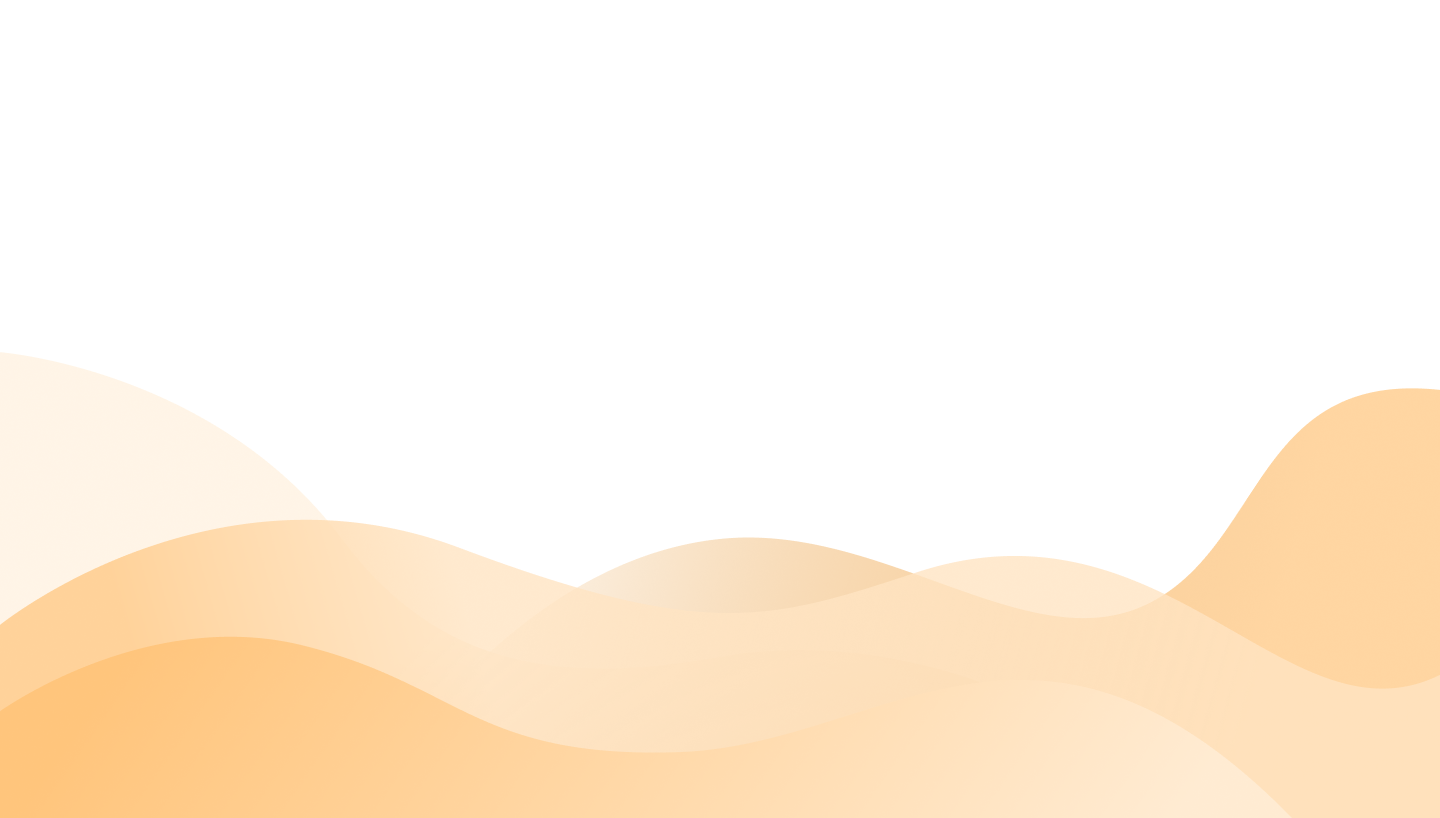
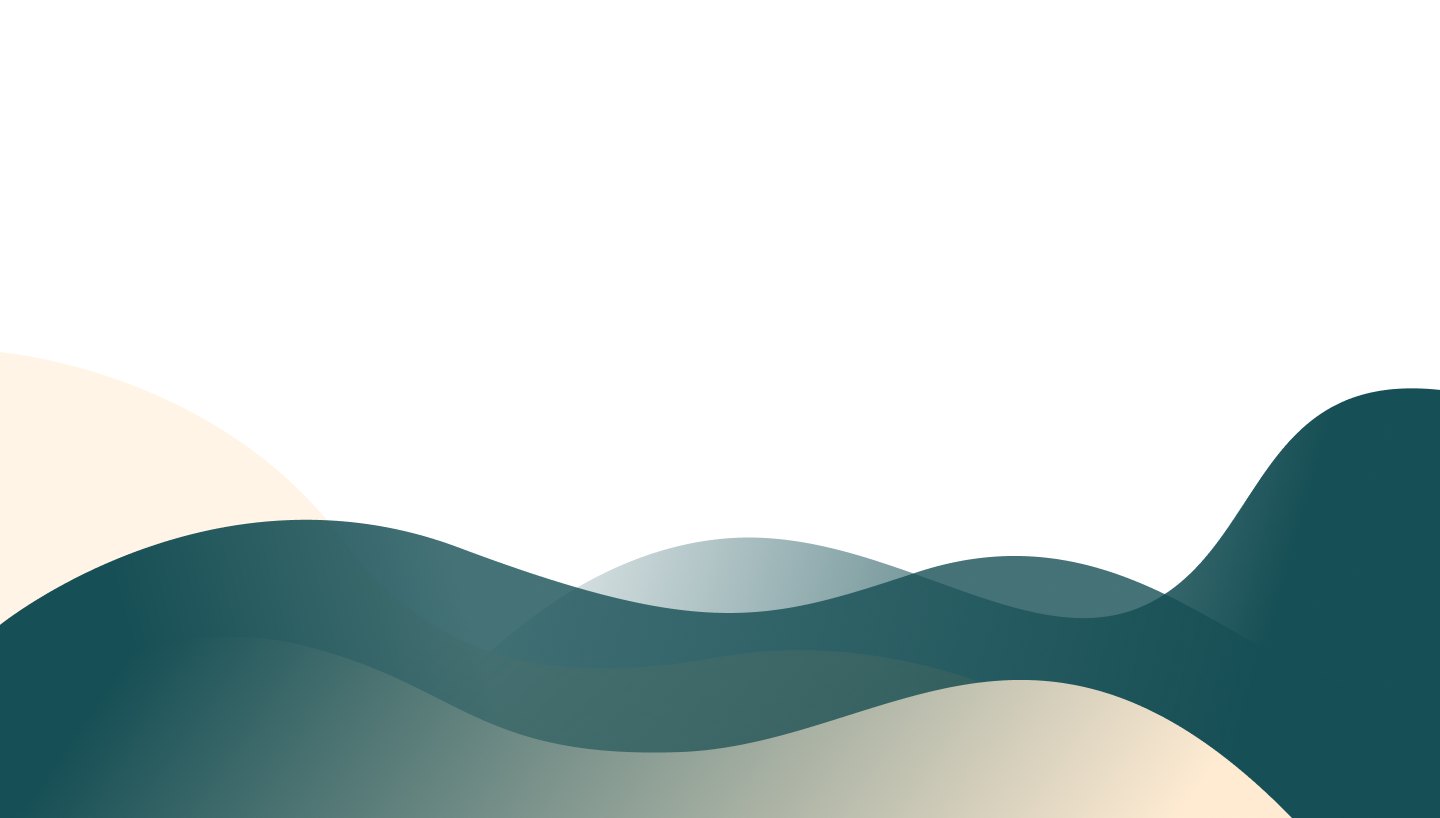
covendx

diff --git a/frontend/src/components/Home/Challenges.jsx b/frontend/src/components/Home/Challenges.jsx
@@ -11,7 +11,7 @@ const Challenges = () => {
 <>
     <div className='Challenges'>
 
-        <div className='challengesHead'>Why Aadmiwala?</div>
+        <div className='challengesHead'>Why Covendx?</div>
 
         <div className='text'>Our platform simplifies agency connections, <br />allowing you to focus on core business while we manage staffing intricacies.</div>
 
@@ -19,27 +19,27 @@ const Challenges = () => {
         {/* <div className='CC_box'>
                 <img src={c0} className='CC_icon'/>
                 <div className='subHead'>Adapting to Changing <br />Business Needs</div> */}
-                {/* <div className='CC_text'>Aadmiwala offers flexible and customizable staffing solutions that adapt to your evolving business needs. Whether you need temporary, permanent, or contract staffing, we have the agility to tailor our services to meet your changing requirements.</div> */}
+                {/* <div className='CC_text'>Covendx offers flexible and customizable staffing solutions that adapt to your evolving business needs. Whether you need temporary, permanent, or contract staffing, we have the agility to tailor our services to meet your changing requirements.</div> */}
             {/* </div> */}
             <div className='CC_box'>
                 <img src={c1} className='CC_icon'/>
                 <div className='subHead'>Ensuring Quality and <br />Reliability</div>
-                {/* <div className='CC_text'> Aadmiwala meticulously evaluates and validates all staffing agencies in our network to ensure they meet our stringent standards. With our quality assurance processes in place, you can trust that you are working with reliable partners who deliver top-notch staffing solutions.</div> */}
+                {/* <div className='CC_text'> Covendx meticulously evaluates and validates all staffing agencies in our network to ensure they meet our stringent standards. With our quality assurance processes in place, you can trust that you are working with reliable partners who deliver top-notch staffing solutions.</div> */}
             </div>
             <div className='CC_box'>
                 <img src={c2} className='CC_icon'/>
                 <div className='subHead'>Managing Multiple Service <br />Providers</div>
-                {/* <div className='CC_text'> Aadmiwala provides a one-stop solution for all your staffing needs. Say goodbye to the hassle of dealing with multiple service providers. We streamline the process, allowing you to access a diverse range of staffing options through a single platform.</div> */}
+                {/* <div className='CC_text'> Covendx provides a one-stop solution for all your staffing needs. Say goodbye to the hassle of dealing with multiple service providers. We streamline the process, allowing you to access a diverse range of staffing options through a single platform.</div> */}
             </div>
             <div className='CC_box'>
                 <img src={c3} className='CC_icon'/>
                 <div className='subHead'>Navigating Legal and <br />Compliance Issues</div>
-                {/* <div className='CC_text'> Aadmiwala helps navigate the complexities of labor laws, regulations, and industry standards. Our team ensures compliance across different regions, providing peace of mind and mitigating legal risks for your business.</div> */}
+                {/* <div className='CC_text'> Covendx helps navigate the complexities of labor laws, regulations, and industry standards. Our team ensures compliance across different regions, providing peace of mind and mitigating legal risks for your business.</div> */}
             </div>
             <div className='CC_box'>
                 <img src={c4} className='CC_icon'/>
                 <div className='subHead'>Finding the Right Talent</div>
-                {/* <div className='CC_text'> Aadmiwala offers tailored staffing solutions, matching businesses with the right talent for their specific requirements. Our extensive network of vetted staffing agencies ensures access to high-quality candidates who meet your company's unique needs.</div> */}
+                {/* <div className='CC_text'> Covendx offers tailored staffing solutions, matching businesses with the right talent for their specific requirements. Our extensive network of vetted staffing agencies ensures access to high-quality candidates who meet your company's unique needs.</div> */}
             </div>
         </div>
 

diff --git a/frontend/src/components/Home/HomeComponents/Faq.jsx b/frontend/src/components/Home/HomeComponents/Faq.jsx
@@ -24,7 +24,7 @@ const Faq = () => {
         <div className='FAQ_head'>FAQs</div>
         <div className='FAQ_content'>
             {/* <div className='FAQ_box'>
-                <div>What services does Aadmiwala offer?</div>
+                <div>What services does Covendx offer?</div>
                 <div>‸</div>
 
             </div> */}
@@ -51,20 +51,20 @@ const Faq = () => {
 }
 
 const data = [{
-    question:'What services does Aadmiwala offer?',
-    answer:'At Aadmiwala, we offer a one-stop solution for all your staffing/vendor needs, eliminating the hassle of searching multiple service providers. Whether you require  housekeeping support, or office assistance, we provide tailored opportunities to meet your unique business requirements. Say goodbye to the complexity of managing multiple vendors and enjoy peace of mind and confidence with Aadmiwala.'
+    question:'What services does Covendx offer?',
+    answer:'At Covendx, we offer a one-stop solution for all your staffing/vendor needs, eliminating the hassle of searching multiple service providers. Whether you require  housekeeping support, or office assistance, we provide tailored opportunities to meet your unique business requirements. Say goodbye to the complexity of managing multiple vendors and enjoy peace of mind and confidence with Covendx.'
 },
 
 {
-    question:"What industries does Aadmiwala cater to?",
-    answer:"Aadmiwala serves clients across various industries, including but not limited to healthcare, IT, finance, manufacturing, hospitality, and retail."
+    question:"What industries does Covendx cater to?",
+    answer:"Covendx serves clients across various industries, including but not limited to healthcare, IT, finance, manufacturing, hospitality, and retail."
 },
 {
-    question:"What is the process for partnering with Aadmiwala?",
-    answer:"Partnering with Aadmiwala is simple. You can get started by contacting us through our website or by phone. Our team will then work with you to understand your staffing needs and tailor a solution that meets your requirements."
+    question:"What is the process for partnering with Covendx?",
+    answer:"Partnering with Covendx is simple. You can get started by contacting us through our website or by phone. Our team will then work with you to understand your staffing needs and tailor a solution that meets your requirements."
 },
 {
-    question:"How does Aadmiwala ensure the quality of the staffing agencies in its network?",
+    question:"How does Covendx ensure the quality of the staffing agencies in its network?",
     answer:"We meticulously evaluate and validate all vendors or staffing agencies before partnering with them . Our stringent standards ensure that only reliable and high-quality vendors or agencies are included in our network."
 },
 

diff --git a/frontend/src/components/Home/Home.css b/frontend/src/components/Home/Home.css
@@ -283,7 +283,9 @@
 }
 
 .CC_box:hover{
-    background-image: linear-gradient(to bottom right, #ffffff 0%, #ffffff 20%, rgba(227, 142, 38, 0.75) 100%);
+    /* background-image: linear-gradient(to bottom right, #ffffff 0%, #ffffff 20%, rgba(227, 142, 38, 0.75) 100%); */
+    background-image: linear-gradient(to bottom right, #ffffff 0%, #ffffff 20%, 
+    #164f556c 100%);
 }
 
 .CC_icon{
@@ -306,7 +308,8 @@
     /* justify-content: center; */
     align-items: center;
     border: 1px solid var(--black);
-    background-image: linear-gradient(180deg, #332F2A 0%, #221505 100%);
+    /* background-image: linear-gradient(180deg, #332F2A 0%, #221505 100%); */
+    background-image: linear-gradient(180deg, #051113 0%, var(--green) 100%);
     transition: margin 300ms ease-in-out;
 }
 
@@ -358,7 +361,8 @@
     justify-content: center;
     align-items: center;
     border: 1px solid var(--black);
-    background-color: #221505;
+    background-image: linear-gradient(180deg, #051113 0%, var(--green) 100%);
+    /* background-color: var(--green); */
     color: white;
     /* background-image: linear-gradient(180deg, #332F2A 0%, #221505 100%); */
 }
@@ -477,7 +481,7 @@
 }
 
 .LC_btn{
-    background-color: var(--orange);
+    background-color: var(--green) !important;
     color: white;
     border: none;
     font-weight: 600;

diff --git a/frontend/src/components/About/AboutTimeline.jsx b/frontend/src/components/About/AboutTimeline.jsx
@@ -75,7 +75,7 @@ const AboutTimeline = () => {
         <TimelineOppositeContent >
           <div className='timelineContent'>
             <div className='timelineHead'>Our Promise</div>
-            <div className='text'>At Aadmiwala, We take pride in our capacity to deliver one vendor solution tailored precisely to your needs, executed efficiently, and steadfast in their outcomes. Our dedication to excellence propels us to surpass your expectations, contributing significantly to the advancement and prosperity of your business.</div>
+            <div className='text'>At Covendx, We take pride in our capacity to deliver one vendor solution tailored precisely to your needs, executed efficiently, and steadfast in their outcomes. Our dedication to excellence propels us to surpass your expectations, contributing significantly to the advancement and prosperity of your business.</div>
           </div>
         </TimelineOppositeContent>
         <TimelineSeparator>

diff --git a/frontend/src/components/About/AboutDesc.jsx b/frontend/src/components/About/AboutDesc.jsx
@@ -9,12 +9,12 @@ const AboutDesc = ({about_ref}) => {
         <div className='AboutBox'>
             <div>
                 
-                <div className='AboutBoxHeading'>About Aadmiwala</div>
+                <div className='AboutBoxHeading'>About Covendx</div>
                 <br/>
                 <br/>
             
                 <div className='text AboutBoxText'>
-                Aadmiwala is your trusted partner in the world of staffing/Vendor solutions, bridging the gap between companies and vendors with precision and expertise.
+                Covendx is your trusted partner in the world of staffing/Vendor solutions, bridging the gap between companies and vendors with precision and expertise.
                 <br/>
                 <br/>
                 <br />

diff --git a/frontend/src/components/Home/OneStopSoln.jsx b/frontend/src/components/Home/OneStopSoln.jsx
@@ -11,7 +11,7 @@ const OneStopSoln = ({connect_ref}) => {
         <div className='OSS_content'>
             <div className='OSS_head'>One-Stop solution</div>
             <div className='text'>
-                Say goodbye to the hassle of searching multiple service providers. At Aadmiwala, we offer a one-stop solution for all your staffing/Vendor needs.
+                Say goodbye to the hassle of searching multiple service providers. At Covendx, we offer a one-stop solution for all your staffing/Vendor needs.
                 <br /> <br />
                 Whether you're in need of housekeeping support or office assistance, we provide opportunities perfectly tailored to meet your organization's needs.
             </div>

diff --git a/frontend/public/index.html b/frontend/public/index.html
@@ -7,7 +7,7 @@
     <meta name="theme-color" content="#000000" />
     <meta
       name="description"
-      content="One Vendor, One Contract, One Solution - Aadmiwala"
+      content="One Vendor, One Contract, One Solution - Covendx"
     />
     <link rel="apple-touch-icon" href="%PUBLIC_URL%/apple-icon.png" />
     <!--
@@ -24,7 +24,7 @@
       work correctly both with client-side routing and a non-root public URL.
       Learn how to configure a non-root public URL by running `npm run build`.
     -->
-    <title>Aadmiwala</title>
+    <title>Covendx</title>
   </head>
   <body>
     <noscript>You need to enable JavaScript to run this app.</noscript>

diff --git a/frontend/src/components/About/AboutWelcome.jsx b/frontend/src/components/About/AboutWelcome.jsx
@@ -8,7 +8,7 @@ const AboutWelcome = ({about_ref}) => {
     <div className='AboutMain'>
         <div>
             <div className='aboutSubHead'>Welcome to</div>
-            <div className='aboutHead'>Aadmiwala</div>
+            <div className='aboutHead'>Covendx</div>
             <div className='subHead'>your trusted partner for tailored staffing <br /> solutions that meets seamless integration. </div>
         </div>
         <div className='text'>Our platform simplifies the process of connecting with the right agencies, allowing clients to focus on their core business while we handle the intricacies of staffing.

diff --git a/frontend/src/components/Footer/Footer.js b/frontend/src/components/Footer/Footer.js
@@ -99,7 +99,7 @@ const Footer = () => {
             <div>Terms & Conditions</div>
             <div>Privacy Policy</div>
         </div>
-        <div className='footerCopyright'>©2024 Aadmiwala, All Rights Reserved. <br />
+        <div className='footerCopyright'>©2024 Covendx, All Rights Reserved. <br />
         (A Division of Janshakti Manpower Services Pvt. Ltd.)</div>
     </div>
   )

diff --git a/frontend/src/components/Footer/Footer.css b/frontend/src/components/Footer/Footer.css
@@ -1,5 +1,5 @@
 .Footer{
-    background: linear-gradient(180deg, #332F2A 0%, #221505 100%);
+    background: linear-gradient(180deg, #051113 0%, var(--green) 100%);
     padding: 72px 64px;
     color: white;
     min-height: 300px;
@@ -38,6 +38,7 @@
 
 .footerLogo{
     align-self: flex-start;
+    height: 40px;
 }
 
 .footerAddress{

diff --git a/frontend/src/components/Nav/Nav.css b/frontend/src/components/Nav/Nav.css
@@ -37,8 +37,8 @@
 }
 
 .navSignupBtn{
-    border: 1px solid var(--black);
-    background-color: var(--black);
+    border: 1px solid var(--green);
+    background-color: var(--green);
     color: white;
     display: flex;
     align-items: center;

diff --git a/frontend/src/index.css b/frontend/src/index.css
@@ -13,6 +13,9 @@ code {
 
 :root{
   --black : #332F2A;
-  --orange : #E38E27;
+  /* --orange : #E38E27; */
+  /* --orange : #FF0000; */
+  --orange : #FFAA00;
   --grey : #0000001A;
+  --green: #164F55;
 }
